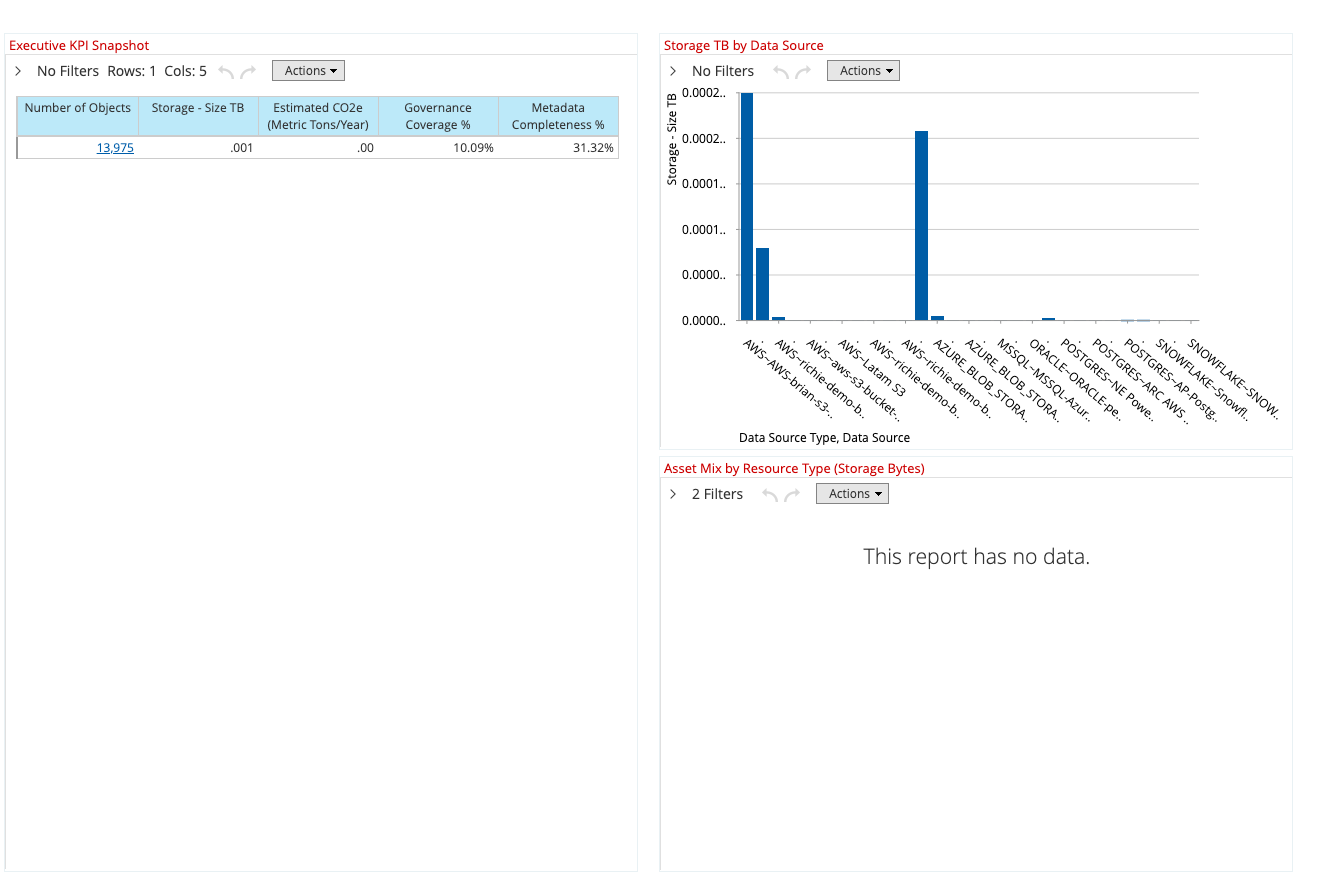
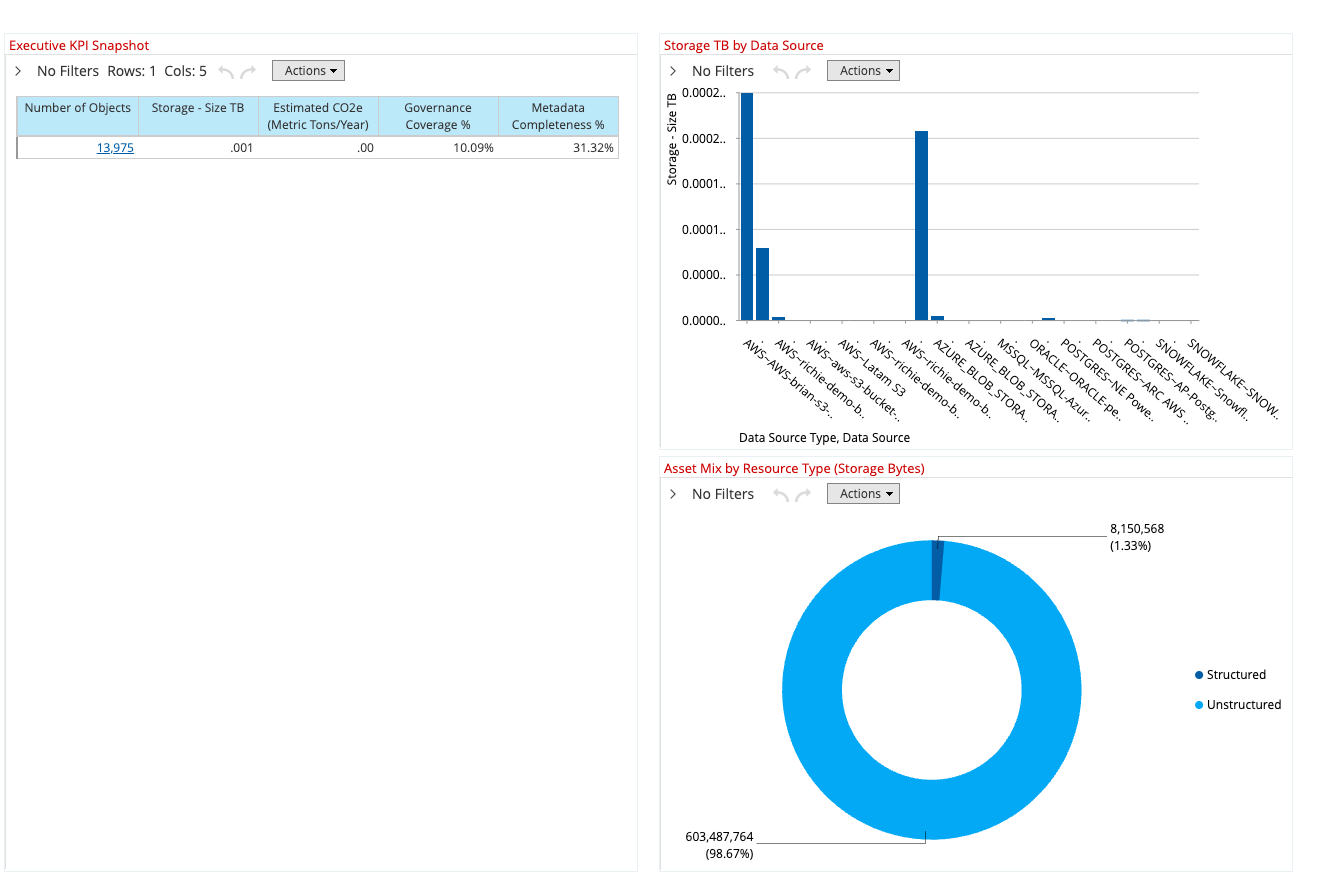
Fix D10 Asset Mix: strip baked-in 2026 date filter from analyzer
00-resource-type.xanalyzer had hardcoded [Scanned Date].[Scanned Year]
and [Scanned Date].[Scanned Month] filters that pinned the donut to
Jan/Feb 2026 only. Removed both filter blocks so Asset Mix reflects
the full estate (true structured/unstructured composition).

- Stripped <filter> blocks from 00-resource-type.xanalyzer
- Pushed updated analyzer to server
- Recaptured D10 screenshot (donut now shows 'No Filters')
- README §1.3: added rule #6 documenting Asset Mix is unfiltered
- README admin note: explained .locale hidden flag + 'Show Hidden
  Files' toggle for users who see locale clutter
- Cleaned up 3 orphan local locale pairs not present on server
  (D00-Data-Sensitivity, D01/D02-Data-Temperature)

diff --git a/pdc-analysis/README.md b/pdc-analysis/README.md
@@ -191,6 +191,7 @@ The dashboard panels follow a few deliberate rules. Knowing them helps you trust
 3. **Scatter / bubble for cross‑grain relationships.** When you see a bubble chart (e.g. **Owner Risk**), each axis intentionally encodes a *different* unit — that's what scatter is for.
 4. **Stacked bars only stack same‑grain things.** "Governance Mix" stacks governed + ungoverned counts. "Missing Attributes" stacks three count metrics at the same grain.
 5. **Naming convention.** Every panel title states the metric and the grain — e.g. *"Storage TB by Data Source"* — so you never have to guess.
+6. **Asset Mix is unfiltered.** The Asset Mix donut on D10 reflects the full estate (no date filter) so the structured/unstructured split represents *total* composition, not a single scan window.
 
 ## 1.4 Drill, slice, and pivot
 
@@ -552,7 +553,7 @@ All use `COALESCE(to_char(ts::date, 'YYYYMMDD')::int, 19000101)`.
 - `D12` — Storage Footprint & Sustainability
 - `D13` — Ownership Accountability
 
-Every report and dashboard has a matching `.locale` file controlling display names and descriptions in the Pentaho UI.
+Every report and dashboard has a matching `.locale` file controlling display names and descriptions in the Pentaho UI. These files are uploaded with `_PERM_HIDDEN=true` (handled automatically by `push-content.sh`) so they don't clutter the user-facing file browser. If you see them in **Browse Files**, toggle off **View → Show Hidden Files**.
 
 ## Version History
 